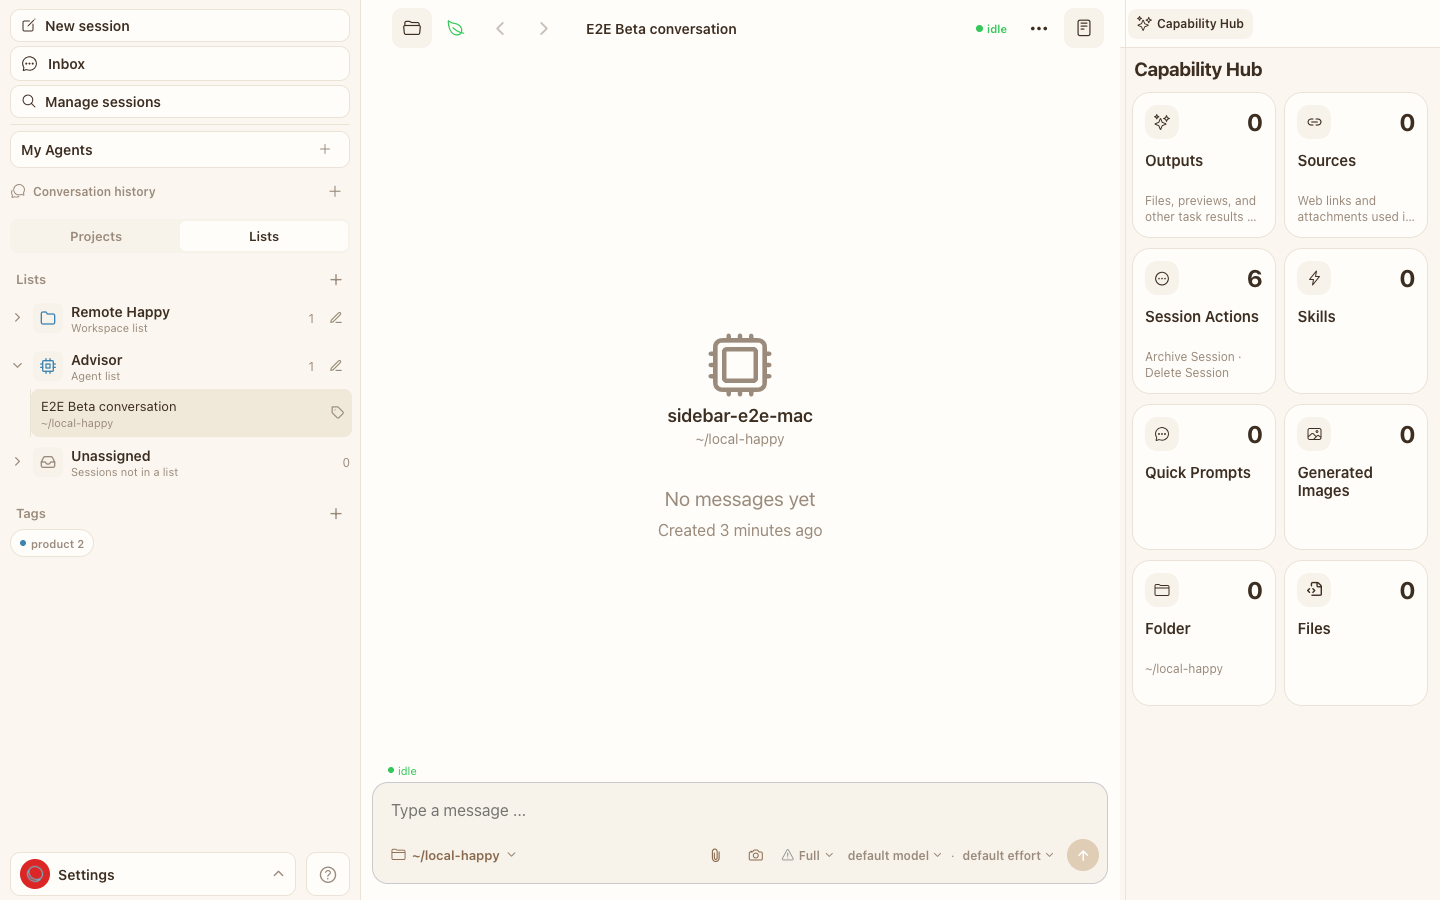
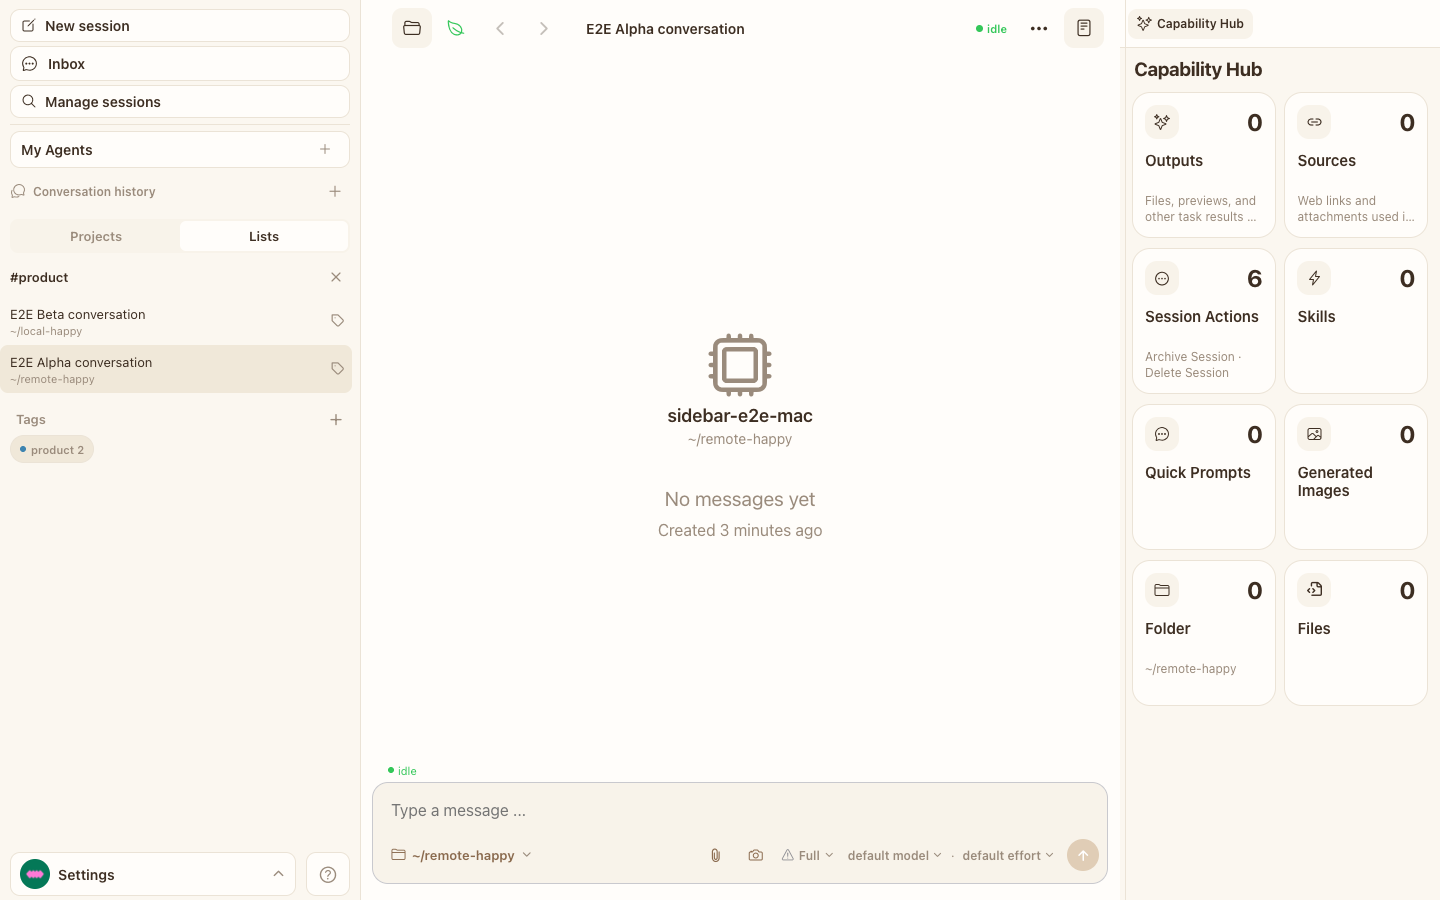
test(app): align sidebar visual evidence

diff --git a/packages/happy-app/e2e/sidebar-lists-tags.spec.ts b/packages/happy-app/e2e/sidebar-lists-tags.spec.ts
@@ -5,7 +5,7 @@ const authenticatedWebUrl = process.env.HAPPY_E2E_WEB_URL!;
 const e2eServerUrl = process.env.HAPPY_E2E_SERVER_URL!;
 const recordEvidence = process.env.HAPPY_E2E_RECORD === '1';
 
-if (recordEvidence) test.use({ video: 'off', trace: 'off' });
+test.use({ video: 'off', trace: 'off' });
 test.setTimeout(360_000);
 
 function authenticatedRoute(pathname: string): string {
@@ -178,13 +178,20 @@ test('[SIDEBAR-LISTS-TAGS] desktop Lists and Tags organize sessions without repl
         await page.screenshot({ path: testInfo.outputPath('02-tag-cross-list-filter.png'), fullPage: true });
         await captureEvidenceFrame(page, testInfo, '08-tag-cross-list-filter');
 
+        await page.getByTestId(`organized-session-${alphaId}`).click();
+        await expect(page).toHaveURL((url) => url.pathname === `/session/${alphaId}`);
+        await expect(page.locator('[data-testid="session-header-title"]:visible')).toHaveText('E2E Alpha conversation');
+
         await page.reload({ timeout: 180_000 });
         await expect(page.getByTestId('desktop-sidebar-tab-lists')).toHaveAttribute('aria-selected', 'true', { timeout: 120_000 });
         await expect(page.getByText('Remote Happy', { exact: true })).toBeVisible();
         await expect(page.getByText('Advisor', { exact: true })).toBeVisible();
         await expect(page.getByRole('button', { name: /^product 2$/ })).toBeVisible();
+        await page.getByRole('button', { name: /^product 2$/ }).click();
+        await expect(page.getByTestId(`organized-session-${alphaId}`)).toBeVisible();
         await expect(page.getByTestId(`organized-session-${betaId}`)).toBeVisible();
-        await expect(page).toHaveURL(betaUrl);
+        await expect(page).toHaveURL((url) => url.pathname === `/session/${alphaId}`);
+        await expect(page.locator('[data-testid="session-header-title"]:visible')).toHaveText('E2E Alpha conversation');
         await pauseForReview(page);
         await page.screenshot({ path: testInfo.outputPath('03-reload-persisted.png'), fullPage: true });
         await captureEvidenceFrame(page, testInfo, '09-reload-persisted');
